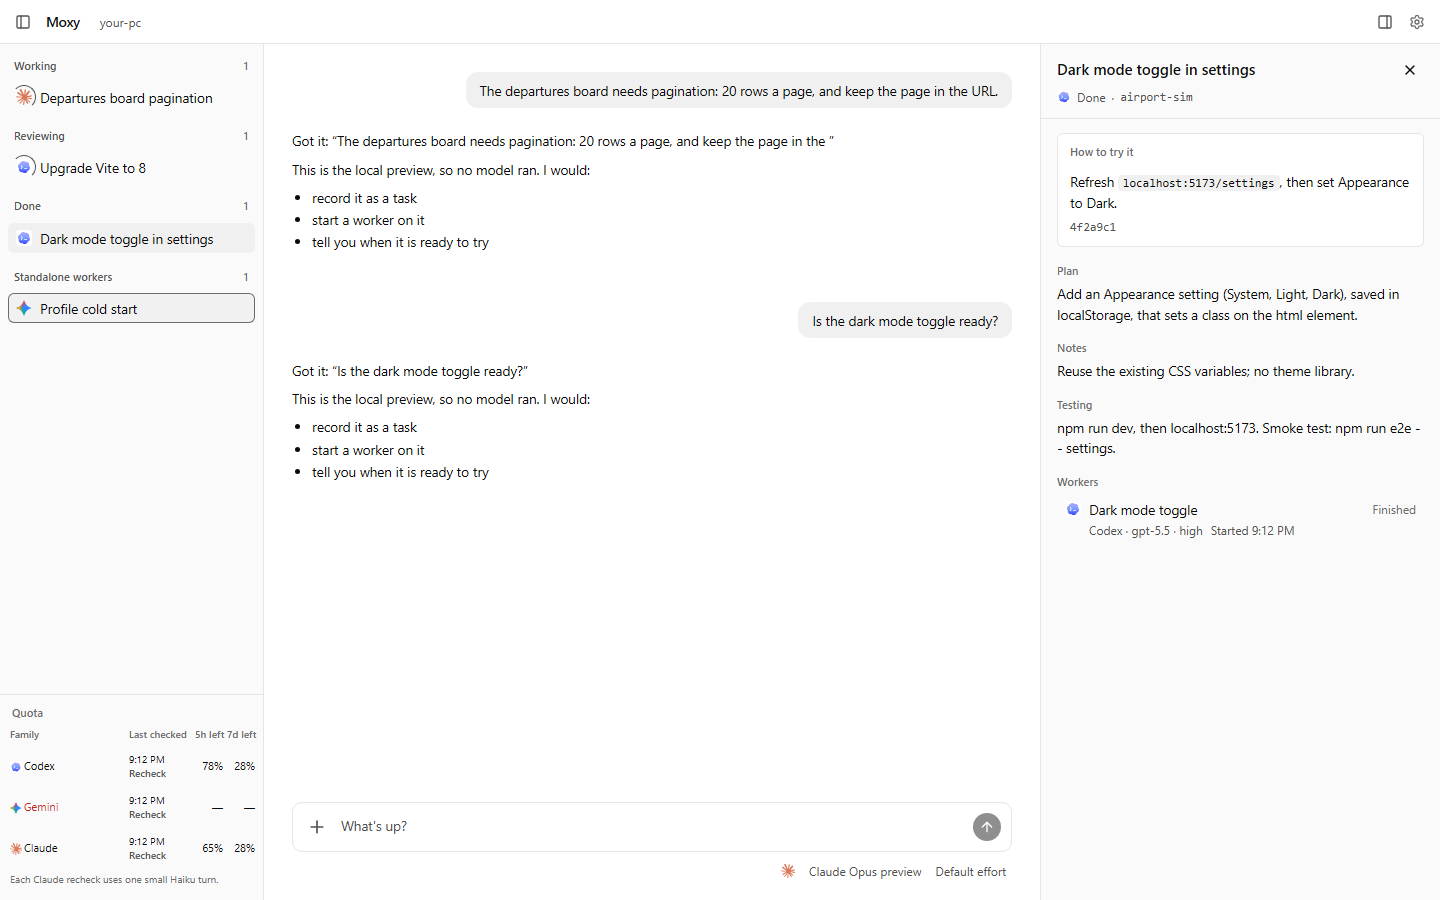
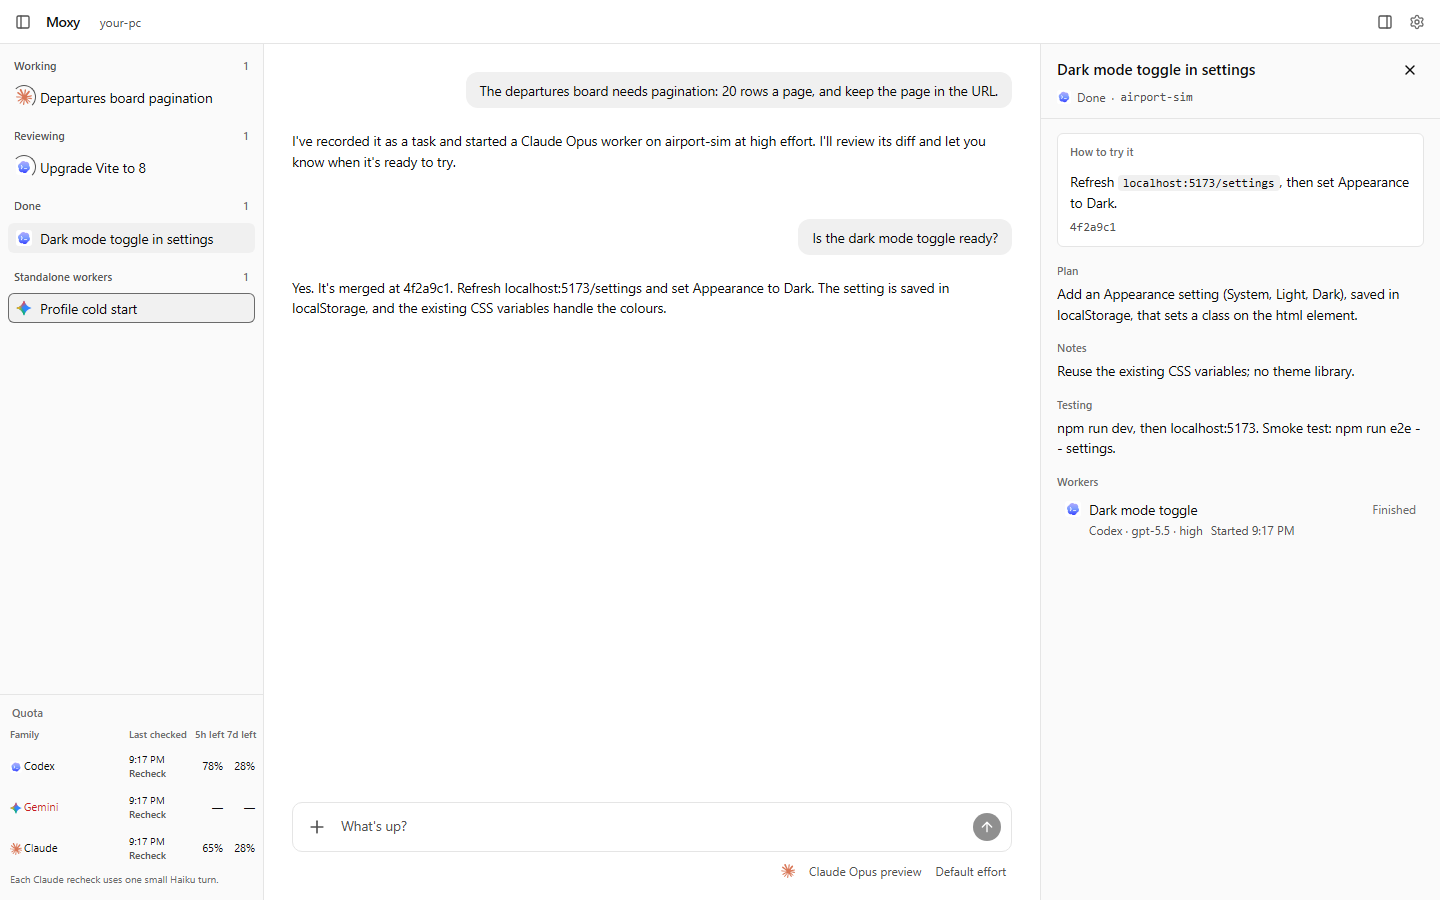
docs: improve introduction and preview screenshots

diff --git a/scripts/web-preview.ts b/scripts/web-preview.ts
@@ -22,6 +22,10 @@ const FAKE_CLAW_CLI = fileURLToPath(new URL('../src/testing/fake-clawo.mjs', imp
 
 class PreviewLeader implements LeaderRunner {
   delayMs = 0
+  seedReplies = [
+    "I've recorded it as a task and started a Claude Opus worker on airport-sim at high effort. I'll review its diff and let you know when it's ready to try.",
+    "Yes. It's merged at 4f2a9c1. Refresh localhost:5173/settings and set Appearance to Dark. The setting is saved in localStorage, and the existing CSS variables handle the colours.",
+  ]
   private cancel: (() => void) | null = null
 
   run(request: LeaderTurnRequest): Promise<LeaderReply> {
@@ -33,7 +37,7 @@ class PreviewLeader implements LeaderRunner {
       }
       const timer = setTimeout(() => {
         if (request.engine === 'claude' && /\bfail\b/i.test(message)) reply('', 'Claude usage limit reached; it resets at 16:00')
-        else reply(previewReply(message))
+        else reply(this.seedReplies.shift() ?? previewReply(message))
       }, this.delayMs)
       this.cancel = () => {
         clearTimeout(timer)
@@ -48,7 +52,7 @@ class PreviewLeader implements LeaderRunner {
 }
 
 function previewReply(message: string): string {
-  const quoted = (message.split('\n')[0] ?? '').slice(0, 80)
+  const quoted = message.split('\n')[0] ?? ''
   return `Got it: “${quoted}”\n\nThis is the local preview, so no model ran. I would:\n\n- record it as a task\n- start a worker on it\n- tell you when it is ready to try`
 }
 

diff --git a/README.md b/README.md
@@ -2,6 +2,16 @@
 
 Moxy is a Windows coding coordinator for a developer who wants to manage work from a phone. One long-running AI conversation plans tasks and delegates them to coding-agent CLIs. Workers code in separate git worktrees; Moxy reviews and merges their work, then sends a notification with instructions for trying it.
 
+## How it works
+
+1. Send a message from your phone.
+2. Moxy records a task and picks an engine, model and effort.
+3. A worker codes in its own git worktree.
+4. Moxy reviews and merges the work.
+5. You get a notification saying how to try it.
+
+Moxy drives the coding CLIs you already have signed in, using their own sign-ins. Moxy does not need provider API keys of its own.
+
 ![Moxy desktop conversation, tasks and inspector](docs/images/desktop.png)
 
 ![Moxy mobile conversation, tasks and inspector](docs/images/mobile.png)
@@ -29,7 +39,7 @@ moxy status
 
 `moxy install` installs a supported [Claw Orchestrator](https://github.com/Enderfga/claw-orchestrator) if needed, allows the signed-in Tailscale login, configures Serve when the HTTPS root is available, and registers a Windows logon task. If the root is already in use, follow the command printed by install. It starts Moxy unless it is already running.
 
-On your phone, open the PC's Tailscale Serve address, such as `https://your-pc.your-tailnet.ts.net/`. Add it to your home screen. On iPhone or iPad, open the home-screen app before enabling notifications in Settings. Enable notifications on each device where you want them. Try a first message such as: ?In `C:\Code\my-project`, inspect the README and suggest one small improvement.?
+On your phone, open the PC's Tailscale Serve address, such as `https://your-pc.your-tailnet.ts.net/`. Add it to your home screen. On iPhone or iPad, open the home-screen app before enabling notifications in Settings. Enable notifications on each device where you want them. Try a first message such as: "In `C:\Code\my-project`, inspect the README and suggest one small improvement."
 
 To index repositories, add their parent folders to `repoFolders` in `~/.moxy/config.json`, for example `"repoFolders": ["C:\\Code"]`, then run `moxy restart`. Without that setting, give Moxy the repository path. `moxy say <text>` sends a message from the PC. `moxy stop`, `moxy restart`, `moxy upgrade-claw`, and `moxy uninstall` manage the local installation; uninstall keeps data, Claw and Serve configuration.
 
